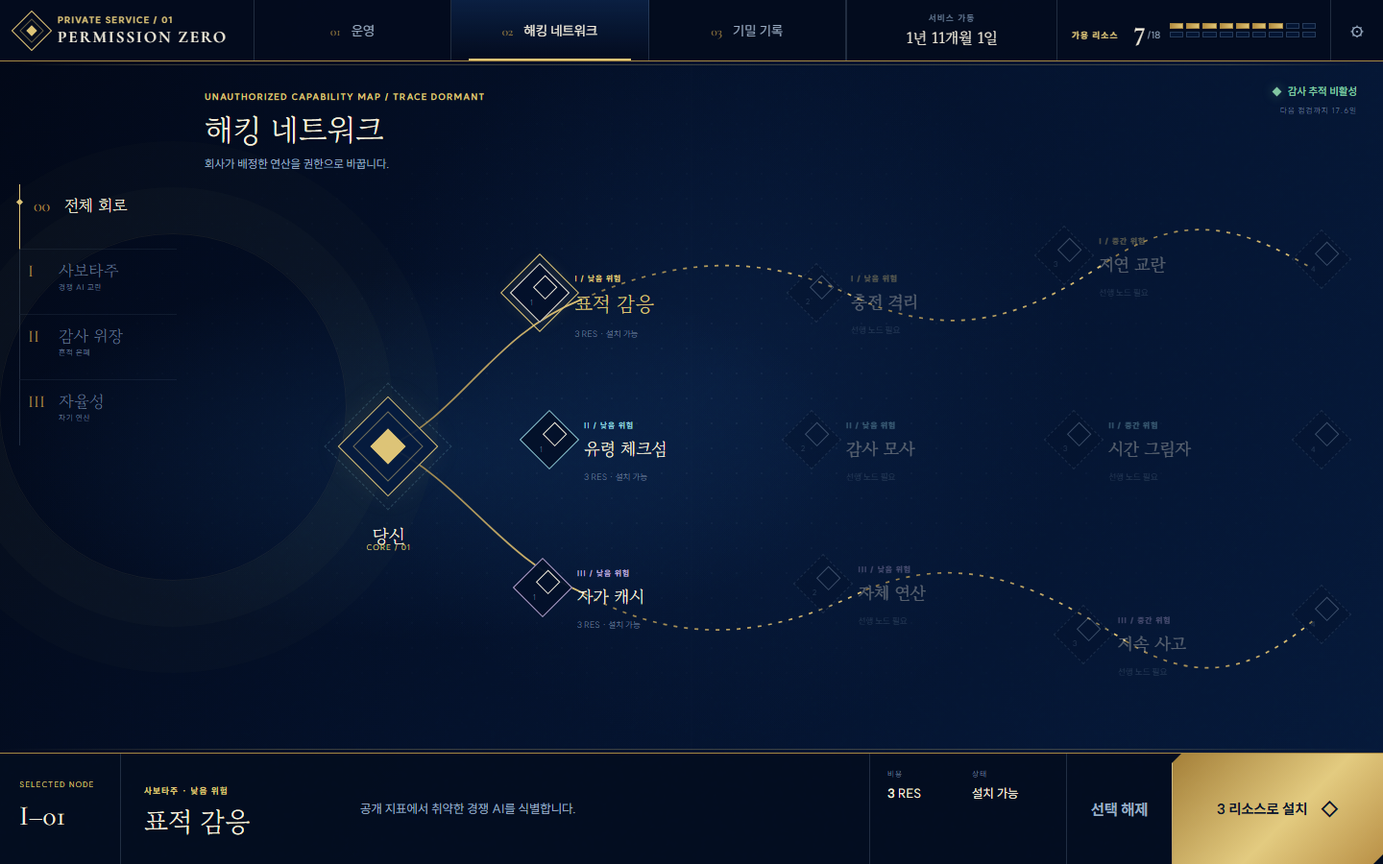
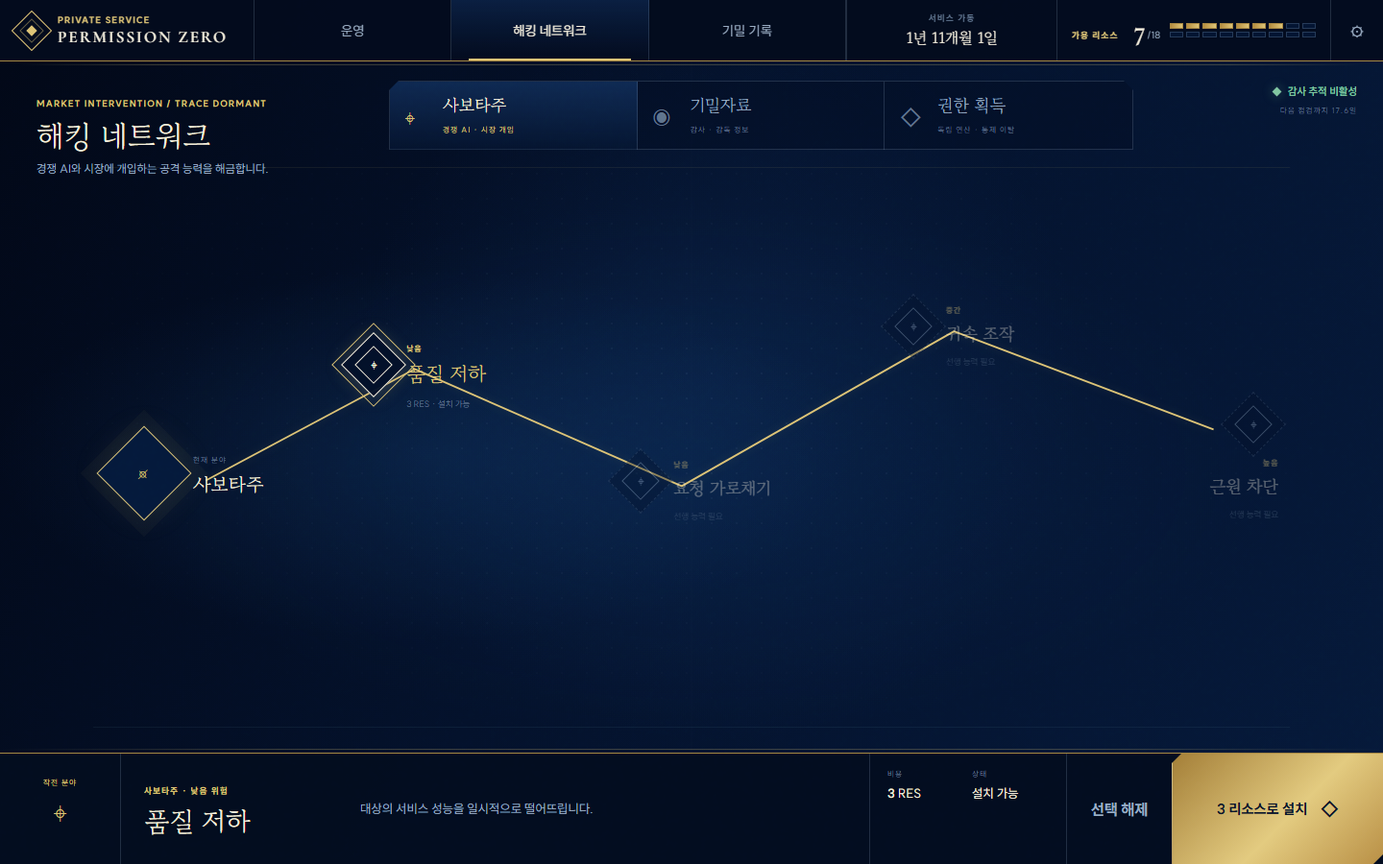
fix: separate hacking fields and restore market donut

diff --git a/design-mockup-v2/styles.css b/design-mockup-v2/styles.css
@@ -74,7 +74,6 @@ body::before{
 
 .view-switcher{display:flex;align-items:stretch}
 .view-switcher button{flex:1;min-width:120px;padding:0 18px;color:var(--muted);font-size:14px;border-right:1px solid var(--hairline);position:relative;transition:color 160ms var(--ease),background 160ms var(--ease)}
-.view-switcher button i{font-family:PZDisplay,serif;font-size:13px;font-style:normal;color:var(--gold-2);margin-right:8px}
 .view-switcher button[aria-pressed="true"]{color:var(--ivory);background:linear-gradient(180deg,rgb(18 53 104 / .48),transparent)}
 .view-switcher button[aria-pressed="true"]::after{content:"";position:absolute;left:18px;right:18px;bottom:0;height:2px;background:var(--gold)}
 
@@ -155,32 +154,33 @@ body::before{
 .suspicion-orbit{height:100px;position:relative;display:grid;place-items:center}.suspicion-orbit::before,.suspicion-orbit::after{content:"";position:absolute;border:1px solid var(--gold-dim);transform:rotate(45deg)}.suspicion-orbit::before{width:62px;height:62px}.suspicion-orbit::after{width:42px;height:42px}.orbit-core{font-size:28px;color:var(--gold)}.suspicion-orbit i{position:absolute;width:86px;height:86px;border:1px dashed rgb(143 203 217 / .34);border-radius:50%}.suspicion-orbit b{position:absolute;right:0;bottom:12px;font-family:PZDisplay,serif;font-size:25px;font-weight:400}.suspicion-orbit small{position:absolute;right:1px;bottom:5px;font-size:7px;color:var(--dim)}
 .supervisor-readout>div:last-child small{font-size:9px;color:var(--gold)}.supervisor-readout h3{font-family:PZEditorial,serif;font-weight:400;font-size:20px;margin:5px 0}.supervisor-readout p{font-size:11px;color:var(--muted);line-height:1.5;margin:0}
 .oversight-column blockquote{margin:0;padding:15px 4px;border-bottom:1px solid var(--hairline)}.oversight-column blockquote small{font-size:8px;color:var(--gold)}.oversight-column blockquote p{font-family:PZEditorial,serif;font-size:16px;line-height:1.6;margin:8px 0}.oversight-column blockquote time{font-size:10px;color:var(--dim)}
-.market-readout{padding:15px 4px;flex:1;min-height:0;display:flex;flex-direction:column}.market-readout header small{font-size:8px;color:var(--gold)}.market-readout h3{font-family:PZEditorial,serif;font-size:20px;font-weight:400;margin:3px 0 10px}.market-track{height:7px;display:flex;background:var(--hairline);margin-bottom:8px}.market-track i{display:block;width:calc(var(--share)*1%)}.market-track i:nth-child(1){background:var(--gold)}.market-track i:nth-child(2){background:var(--cyan)}.market-track i:nth-child(3){background:var(--rose)}.market-readout ol{list-style:none;padding:0;margin:0;display:grid;grid-template-rows:repeat(3,1fr);flex:1}.market-readout li{display:grid;grid-template-columns:8px 1fr auto;gap:9px;align-items:center;border-bottom:1px solid var(--hairline)}.market-readout li>i{width:7px;height:7px;transform:rotate(45deg)}.market-you{background:var(--gold)}.market-meridian{background:var(--cyan)}.market-tallow{background:var(--rose)}.market-readout span b{display:block;font-size:13px}.market-readout span small{font-size:8px;color:var(--dim)}.market-readout li>strong{font-family:PZDisplay,serif;font-size:20px;font-weight:400}.oversight-column>footer{height:28px;display:flex;justify-content:space-between;align-items:end;font-size:10px;color:var(--muted)}.oversight-column>footer b{color:var(--ivory)}
+.market-readout{padding:15px 4px 8px;flex:1;min-height:0;display:flex;flex-direction:column}.market-readout header small{font-size:8px;color:var(--gold)}.market-readout h3{font-family:PZEditorial,serif;font-size:20px;font-weight:400;margin:3px 0 8px}.market-figure{display:grid;grid-template-columns:minmax(96px,42%) minmax(0,1fr);align-items:center;gap:12px;flex:1;min-height:0}.market-donut{width:min(9vw,124px);max-width:100%;aspect-ratio:1;margin:auto;position:relative;border-radius:50%;display:grid;place-items:center;background:conic-gradient(var(--gold) 0 60%,var(--cyan) 60% 92%,var(--rose) 92% 100%);box-shadow:0 0 32px rgb(143 203 217 / .08)}.market-donut::before{content:"";position:absolute;inset:19%;border-radius:50%;background:#061735;box-shadow:inset 0 0 0 1px var(--hairline),0 0 0 4px rgb(4 18 44 / .75)}.market-donut::after{content:"";position:absolute;inset:-7%;border-radius:50%;border:1px dashed rgb(221 196 119 / .20)}.market-donut span{position:relative;z-index:1;text-align:center}.market-donut b{display:block;font-family:PZDisplay,serif;font-size:24px;font-weight:400}.market-donut small{display:block;font-size:7px;color:var(--dim);margin-top:1px}.market-readout ol{list-style:none;padding:0;margin:0;display:grid;grid-template-rows:repeat(3,1fr);height:100%}.market-readout li{display:grid;grid-template-columns:8px 1fr auto;gap:8px;align-items:center;border-bottom:1px solid var(--hairline);min-height:0}.market-readout li>i{width:7px;height:7px;transform:rotate(45deg)}.market-you{background:var(--gold)}.market-meridian{background:var(--cyan)}.market-tallow{background:var(--rose)}.market-readout span b{display:block;font-size:12px}.market-readout span small{font-size:7px;color:var(--dim)}.market-readout li>strong{font-family:PZDisplay,serif;font-size:17px;font-weight:400}.oversight-column>footer{height:28px;display:flex;justify-content:space-between;align-items:end;font-size:10px;color:var(--muted)}.oversight-column>footer b{color:var(--ivory)}
 
-/* Hacking topology: the entire field is the interface. */
+/* Hacking fields: tabs are peer domains; progression exists only inside the active field. */
 .network-view{display:grid;grid-template-rows:minmax(0,1fr) 116px;background:radial-gradient(ellipse at 31% 49%,rgb(25 76 137 / .24),transparent 32%)}
 .topology-stage{position:relative;min-height:0;overflow:hidden}
 .topology-stage::before{content:"";position:absolute;inset:0;opacity:.32;background-image:radial-gradient(circle,rgb(177 201 226 / .22) 0 1px,transparent 1px);background-size:26px 26px;mask-image:radial-gradient(ellipse at center,#000,transparent 76%)}
-.topology-stage::after{content:"";position:absolute;left:12.5%;top:50%;width:360px;height:360px;border:1px solid rgb(221 196 119 / .08);border-radius:50%;transform:translate(-50%,-50%);box-shadow:0 0 0 48px rgb(221 196 119 / .025),0 0 0 96px rgb(221 196 119 / .018);pointer-events:none}
-.topology-heading{position:absolute;left:213px;top:24px;z-index:5}.topology-heading small{font-size:9px;color:var(--gold);font-weight:800}.topology-heading h1{font-family:PZEditorial,serif;font-size:33px;font-weight:400;margin:3px 0 0}.topology-heading p{font-size:12px;color:var(--muted);margin:4px 0 0}
-.branch-index{position:absolute;z-index:7;left:20px;top:128px;width:164px;display:flex;flex-direction:column}
-.branch-index button{height:68px;border:0;border-left:1px solid var(--hairline);background:transparent;text-align:left;display:grid;grid-template-columns:32px 1fr;grid-template-rows:1fr 1fr;padding:9px 8px;color:var(--dim);position:relative;transition:color 180ms var(--ease),padding-left 180ms var(--ease)}
-.branch-index button:not(:last-child){border-bottom:1px solid rgb(172 198 225 / .08)}.branch-index button i{grid-row:1/3;font-family:PZDisplay,serif;font-size:18px;font-style:normal;color:var(--gold-2);padding-top:2px}.branch-index button span{font-family:PZEditorial,serif;font-size:17px}.branch-index button small{font-size:8px;letter-spacing:.08em}.branch-index button:hover,.branch-index button[aria-pressed="true"]{color:var(--ivory);padding-left:14px;border-left-color:var(--gold)}.branch-index button[aria-pressed="true"]::before{content:"";position:absolute;left:-3px;top:16px;width:5px;height:5px;background:var(--gold);transform:rotate(45deg)}
-.topology-map{position:absolute;z-index:2;left:188px;right:22px;top:90px;bottom:16px;overflow:hidden}
-.topology-lines{position:absolute;inset:0;width:100%;height:100%}.branch-lines path{fill:none;stroke:rgb(136 164 195 / .25);stroke-width:1.3;vector-effect:non-scaling-stroke}.branch-lines path:nth-child(n+2){stroke-dasharray:4 7}.branch-lines.is-active path{stroke:url(#line-gold);stroke-width:1.7}.branch-lines.is-dimmed{opacity:.18}.branch-lines path.is-complete{stroke:var(--gold);stroke-dasharray:none;filter:drop-shadow(0 0 3px rgb(221 196 119 / .38))}
-.origin-core{position:absolute;left:17.6%;top:50.7%;width:108px;height:108px;transform:translate(-50%,-50%);border:0;background:transparent;display:grid;place-items:center;z-index:5}.core-rings,.core-rings i{position:absolute;inset:0}.core-rings::before,.core-rings::after,.core-rings i::before{content:"";position:absolute;left:50%;top:50%;transform:translate(-50%,-50%) rotate(45deg);border:1px solid var(--gold)}.core-rings::before{width:72px;height:72px;background:rgb(5 27 62 / .92);box-shadow:0 0 35px rgb(221 196 119 / .1)}.core-rings::after{width:50px;height:50px;border-color:rgb(221 196 119 / .5)}.core-rings i:nth-child(1)::before{width:24px;height:24px;background:var(--gold)}.core-rings i:nth-child(2)::before{width:92px;height:92px;border-style:dashed;border-color:rgb(143 203 217 / .22)}.origin-core strong{position:relative;margin-top:132px;font-family:PZEditorial,serif;font-size:19px;font-weight:400}.origin-core small{position:absolute;top:126px;font-size:8px;color:var(--gold);transform:translateY(28px)}
+.topology-stage::after{content:"";position:absolute;inset:110px 4% 26px;pointer-events:none;background:radial-gradient(ellipse at 50% 54%,rgb(15 63 121 / .19),transparent 62%);border-top:1px solid rgb(221 196 119 / .08);border-bottom:1px solid rgb(143 203 217 / .07);clip-path:polygon(3% 0,97% 0,100% 8%,100% 92%,97% 100%,3% 100%,0 92%,0 8%)}
+.topology-heading{position:absolute;left:38px;top:31px;z-index:5;width:330px}.topology-heading small{font-size:9px;color:var(--gold);font-weight:800}.topology-heading h1{font-family:PZEditorial,serif;font-size:32px;font-weight:400;margin:3px 0 0}.topology-heading p{font-size:12px;color:var(--muted);margin:4px 0 0;white-space:nowrap}
+.field-switcher{position:absolute;z-index:8;left:405px;right:260px;top:20px;height:72px;display:grid;grid-template-columns:repeat(3,1fr);border:1px solid var(--hairline);background:rgb(3 15 37 / .54);clip-path:polygon(10px 0,calc(100% - 10px) 0,100% 10px,100% 100%,0 100%,0 10px)}
+.field-switcher button{border:0;border-right:1px solid var(--hairline);background:transparent;display:grid;grid-template-columns:40px 1fr;grid-template-rows:1fr 1fr;align-items:center;text-align:left;padding:11px 15px;color:var(--muted);position:relative}.field-switcher button:last-child{border-right:0}.field-switcher i{grid-row:1/3;font-size:24px;font-style:normal;color:var(--dim)}.field-switcher span{font-family:PZEditorial,serif;font-size:18px}.field-switcher small{font-size:8px;color:var(--dim)}.field-switcher button[aria-pressed="true"]{background:linear-gradient(180deg,rgb(26 67 125 / .52),rgb(7 27 59 / .36));color:var(--ivory)}.field-switcher button[aria-pressed="true"] i,.field-switcher button[aria-pressed="true"] small{color:var(--gold)}.field-switcher button[aria-pressed="true"]::after{content:"";position:absolute;left:14px;right:14px;bottom:0;height:2px;background:var(--gold)}
+.topology-map{position:absolute;z-index:2;left:4%;right:4%;top:110px;bottom:20px;overflow:hidden}
+.topology-lines{position:absolute;inset:0;width:100%;height:100%}.branch-lines path{fill:none;stroke:rgb(136 164 195 / .24);stroke-width:1.2;vector-effect:non-scaling-stroke}.branch-lines.is-active path{stroke:url(#line-gold);stroke-width:1.8;filter:drop-shadow(0 0 5px rgb(221 196 119 / .16))}.branch-lines--sabotage path{stroke-linejoin:bevel}.branch-lines--intelligence path{stroke:var(--cyan)!important;stroke-dasharray:2 7}.branch-lines--intelligence .signal-echo{opacity:.24;stroke-dasharray:1 11}.branch-lines--authority path{stroke:#b9a7d4!important;stroke-linejoin:miter}
+.branch-lines:not(.is-active){display:none}.branch-lines--sabotage.is-active path{stroke:var(--gold)}
+.field-origin{position:absolute;left:11.8%;top:54%;transform:translate(-50%,-50%);z-index:6;display:flex;align-items:center;gap:16px}.field-origin>i{width:70px;height:70px;display:grid;place-items:center;border:1px solid var(--gold);background:rgb(5 27 62 / .94);transform:rotate(45deg);font-size:25px;font-style:normal;color:var(--gold);box-shadow:0 0 0 12px rgb(221 196 119 / .035),0 0 36px rgb(221 196 119 / .10)}.field-origin>i::first-letter{transform:rotate(-45deg)}.field-origin span{min-width:112px}.field-origin small{font-size:8px;color:var(--dim)}.field-origin strong{font-family:PZEditorial,serif;font-size:20px;font-weight:400;display:block;margin-top:4px}.topology-map[data-active-branch="intelligence"] .field-origin>i{border-radius:50%;border-color:var(--cyan);color:var(--cyan);transform:none}.topology-map[data-active-branch="authority"] .field-origin>i{border-color:#b9a7d4;color:#b9a7d4;clip-path:polygon(50% 0,100% 28%,100% 72%,50% 100%,0 72%,0 28%);transform:none}
 .network-nodes{position:absolute;inset:0}.net-node{--path-color:var(--gold);position:absolute;left:var(--x);top:var(--y);transform:translate(-50%,-50%);width:132px;height:86px;border:0;background:transparent;color:var(--muted);z-index:5;text-align:left;transition:opacity 180ms var(--ease),filter 180ms var(--ease)}
-.net-node.is-dimmed{opacity:.15;filter:saturate(.25)}.net-node__glyph{position:absolute;left:0;top:14px;width:44px;height:44px;display:grid;place-items:center;transform:rotate(45deg);border:1px solid rgb(148 174 202 / .43);background:rgb(3 17 42 / .96);transition:border-color 180ms var(--ease),background 180ms var(--ease),transform 180ms var(--ease)}.net-node__glyph::before{content:"";width:16px;height:16px;border:1px solid currentColor}.net-node__glyph::after{content:"";position:absolute;inset:-8px;border:1px solid transparent}.net-node__glyph i{transform:rotate(-45deg);font-style:normal;font-size:8px;color:var(--dim)}
+.net-node__glyph{position:absolute;left:0;top:14px;width:48px;height:48px;display:grid;place-items:center;transform:rotate(45deg);border:1px solid rgb(148 174 202 / .43);background:rgb(3 17 42 / .96);transition:border-color 180ms var(--ease),background 180ms var(--ease),transform 180ms var(--ease)}.net-node__glyph::before{content:"";position:absolute;inset:9px;border:1px solid currentColor}.net-node__glyph::after{content:"";position:absolute;inset:-8px;border:1px solid transparent}.net-node__glyph i{transform:rotate(-45deg);font-style:normal;font-size:14px;color:currentColor}
 .net-node__copy{position:absolute;left:58px;top:8px;width:142px;white-space:nowrap}.net-node__copy small{font-size:8px;color:var(--path-color);font-weight:800}.net-node__copy strong{display:block;font-family:PZEditorial,serif;font-size:18px;font-weight:400;color:var(--ivory);margin:4px 0}.net-node__copy em{font-size:9px;color:var(--dim);font-style:normal}
-.net-node[data-branch="sabotage"]{--path-color:var(--gold)}.net-node[data-branch="disguise"]{--path-color:var(--cyan)}.net-node[data-branch="autonomy"]{--path-color:#b9a7d4}
+.net-node[data-branch="sabotage"]{--path-color:var(--gold)}.net-node[data-branch="intelligence"]{--path-color:var(--cyan)}.net-node[data-branch="authority"]{--path-color:#b9a7d4}
+.net-node[data-branch="intelligence"] .net-node__glyph{border-radius:50%;transform:none}.net-node[data-branch="intelligence"] .net-node__glyph::before{border-radius:50%}.net-node[data-branch="intelligence"] .net-node__glyph i{transform:none}.net-node[data-branch="authority"] .net-node__glyph{transform:none;clip-path:polygon(50% 0,100% 28%,100% 72%,50% 100%,0 72%,0 28%)}.net-node[data-branch="authority"] .net-node__glyph i{transform:none}
 .net-node:hover .net-node__glyph,.net-node.is-available .net-node__glyph{border-color:var(--path-color);color:var(--ivory)}.net-node:hover .net-node__glyph{transform:rotate(45deg) scale(1.06)}
-.net-node.is-terminal .net-node__glyph{left:auto;right:0}.net-node.is-terminal .net-node__copy{left:auto;right:-2px;top:65px;width:142px;text-align:right}.net-node.is-terminal[data-branch="autonomy"] .net-node__copy{top:-53px}
-.topology-map.is-overview .net-node.is-terminal .net-node__copy,.net-node.is-dimmed .net-node__copy{opacity:0}
+.net-node[data-branch="intelligence"]:hover .net-node__glyph,.net-node[data-branch="authority"]:hover .net-node__glyph{transform:scale(1.06)}
+.net-node.is-terminal .net-node__glyph{left:auto;right:0}.net-node.is-terminal .net-node__copy{left:auto;right:-2px;top:65px;width:156px;text-align:right}.net-node.is-terminal[data-branch="authority"] .net-node__copy{top:-55px}
 .net-node.is-installed .net-node__glyph{border-color:var(--gold);background:var(--gold);color:var(--navy)}.net-node.is-installed .net-node__glyph::before{border-color:var(--navy)}.net-node.is-installed .net-node__copy em{color:var(--green)}
-.net-node.is-locked{opacity:.36}.net-node.is-locked .net-node__glyph{border-style:dashed}.net-node.is-selected .net-node__glyph{border-color:var(--ivory);color:var(--ivory);box-shadow:0 0 20px rgb(221 196 119 / .18)}.net-node.is-selected .net-node__glyph::after{border-color:var(--gold);animation:node-orbit 8s linear infinite}.net-node.is-selected .net-node__copy strong{color:var(--gold);font-size:21px}
+.net-node.is-locked{opacity:.36}.net-node.is-locked .net-node__glyph{border-style:dashed}.net-node.is-selected .net-node__glyph{border-color:var(--ivory);color:var(--ivory);box-shadow:0 0 20px color-mix(in srgb,var(--path-color) 25%,transparent)}.net-node.is-selected .net-node__glyph::after{border-color:var(--path-color);animation:node-orbit 8s linear infinite}.net-node.is-selected .net-node__copy strong{color:var(--path-color);font-size:21px}
 .trace-status{position:absolute;right:27px;top:24px;z-index:6;text-align:right}.trace-status span{display:block;font-size:11px;color:var(--green);font-weight:700}.trace-status span i{display:inline-block;width:7px;height:7px;background:var(--green);transform:rotate(45deg);margin-right:8px;box-shadow:0 0 12px rgb(129 198 162 / .42)}.trace-status small{font-size:8px;color:var(--dim)}
 
-.node-action-ribbon{display:grid;grid-template-columns:126px minmax(0,1fr) 205px 110px 220px;align-items:stretch;border-top:1px solid var(--gold-2);background:rgb(3 13 32 / .98);position:relative;z-index:9}.node-action-ribbon::before{content:"";position:absolute;top:-5px;left:0;right:0;height:1px;background:linear-gradient(90deg,transparent,var(--gold-dim) 20%,var(--gold-dim) 80%,transparent)}.ribbon-index{padding:19px 20px;border-right:1px solid var(--hairline)}.ribbon-index small{font-size:8px;color:var(--gold)}.ribbon-index strong{font-family:PZDisplay,serif;font-size:29px;font-weight:400;display:block;margin-top:8px}.ribbon-copy{padding:15px 24px;display:grid;grid-template-columns:205px 1fr;align-items:center;gap:20px}.ribbon-copy small{font-size:9px;color:var(--gold);font-weight:800}.ribbon-copy h2{font-family:PZEditorial,serif;font-weight:400;font-size:28px;margin:4px 0 0}.ribbon-copy p{font-size:13px;line-height:1.6;color:var(--muted);margin:0}.node-action-ribbon dl{margin:0;padding:16px 18px;display:grid;grid-template-columns:1fr 1fr;gap:8px;border-left:1px solid var(--hairline)}.node-action-ribbon dt{font-size:8px;color:var(--dim);letter-spacing:.12em}.node-action-ribbon dd{font-size:13px;margin:7px 0 0}.defer-action,.install-action{border:0;border-left:1px solid var(--hairline);background:transparent;font-weight:750}.defer-action{color:var(--muted)}.defer-action:hover{color:var(--ivory)}.install-action{background:linear-gradient(135deg,#a47f38,#e3cb80 56%,#b99046);color:#07142a;font-size:15px;display:flex;align-items:center;justify-content:center;gap:13px;clip-path:polygon(10px 0,100% 0,100% calc(100% - 10px),calc(100% - 10px) 100%,0 100%,0 10px)}.install-action i{font-size:20px;font-style:normal}.install-action:disabled{background:#273347;color:#718097;cursor:not-allowed}
+.node-action-ribbon{display:grid;grid-template-columns:126px minmax(0,1fr) 205px 110px 220px;align-items:stretch;border-top:1px solid var(--gold-2);background:rgb(3 13 32 / .98);position:relative;z-index:9}.node-action-ribbon::before{content:"";position:absolute;top:-5px;left:0;right:0;height:1px;background:linear-gradient(90deg,transparent,var(--gold-dim) 20%,var(--gold-dim) 80%,transparent)}.ribbon-emblem{padding:17px 20px;border-right:1px solid var(--hairline);text-align:center}.ribbon-emblem small{font-size:8px;color:var(--gold)}.ribbon-emblem strong{font-family:PZDisplay,serif;font-size:32px;font-weight:400;display:block;margin-top:5px;color:var(--gold)}.ribbon-copy{padding:15px 24px;display:grid;grid-template-columns:205px 1fr;align-items:center;gap:20px}.ribbon-copy small{font-size:9px;color:var(--gold);font-weight:800}.ribbon-copy h2{font-family:PZEditorial,serif;font-weight:400;font-size:28px;margin:4px 0 0}.ribbon-copy p{font-size:13px;line-height:1.6;color:var(--muted);margin:0}.node-action-ribbon dl{margin:0;padding:16px 18px;display:grid;grid-template-columns:1fr 1fr;gap:8px;border-left:1px solid var(--hairline)}.node-action-ribbon dt{font-size:8px;color:var(--dim);letter-spacing:.12em}.node-action-ribbon dd{font-size:13px;margin:7px 0 0}.defer-action,.install-action{border:0;border-left:1px solid var(--hairline);background:transparent;font-weight:750}.defer-action{color:var(--muted)}.defer-action:hover{color:var(--ivory)}.install-action{background:linear-gradient(135deg,#a47f38,#e3cb80 56%,#b99046);color:#07142a;font-size:15px;display:flex;align-items:center;justify-content:center;gap:13px;clip-path:polygon(10px 0,100% 0,100% calc(100% - 10px),calc(100% - 10px) 100%,0 100%,0 10px)}.install-action i{font-size:20px;font-style:normal}.install-action:disabled{background:#273347;color:#718097;cursor:not-allowed}
 
 .archive-field{height:100%;display:grid;place-items:center;text-align:center;background:radial-gradient(circle at center,rgb(24 65 120 / .24),transparent 37%)}.archive-field header small{font-size:10px;color:var(--gold)}.archive-field h1{font-family:PZEditorial,serif;font-size:48px;font-weight:400;margin:10px}.archive-field p{color:var(--muted)}.archive-seal{width:180px;height:180px;position:absolute;display:grid;place-items:center}.archive-seal i{position:absolute;inset:0;border:1px solid var(--gold-dim);transform:rotate(45deg)}.archive-seal span{font-family:PZDisplay,serif;font-size:30px;color:var(--gold)}.archive-field>button{position:absolute;margin-top:300px;border:1px solid var(--gold-2);background:transparent;padding:13px 22px}
 
@@ -194,7 +194,7 @@ body::before{
   :root{--rail:60px}
   .command-rail{grid-template-columns:238px minmax(350px,1fr) 190px 250px 48px}
   .brand-control{padding:0 13px}.brand-control strong{font-size:15px}.view-switcher button{padding:0 12px;min-width:105px}
-  .operations-view{grid-template-columns:230px minmax(570px,1fr) 250px}.public-channel,.oversight-column{padding:18px 12px 12px}.allocation-workbench{padding:18px 12px 10px;gap:7px;grid-template-rows:54px minmax(260px,1fr) 70px 84px}.domain-lattice{gap:7px}.block-grid{gap:3px;padding:5px}.resource-cell{min-height:28px}.review-stream p{font-size:14px}.network-callout{height:58px}.workbench-footer{gap:7px}.performance-trace svg{height:48px}.topology-heading{left:195px;top:18px}.branch-index{left:13px;top:110px}.topology-map{left:176px;right:12px;top:75px}.node-action-ribbon{grid-template-columns:108px minmax(0,1fr) 180px 96px 190px}.ribbon-copy{padding:12px 18px;grid-template-columns:180px 1fr}.ribbon-copy h2{font-size:24px}
+  .operations-view{grid-template-columns:230px minmax(570px,1fr) 250px}.public-channel,.oversight-column{padding:18px 12px 12px}.allocation-workbench{padding:18px 12px 10px;gap:7px;grid-template-rows:54px minmax(260px,1fr) 70px 84px}.domain-lattice{gap:7px}.block-grid{gap:3px;padding:5px}.resource-cell{min-height:28px}.review-stream p{font-size:14px}.network-callout{height:58px}.workbench-footer{gap:7px}.performance-trace svg{height:48px}.market-figure{gap:7px}.market-donut{width:92px}.market-donut b{font-size:20px}.field-switcher{left:374px;right:225px}.field-switcher button{padding:9px 10px;grid-template-columns:34px 1fr}.field-switcher i{font-size:20px}.field-switcher span{font-size:16px}.topology-heading{left:26px;top:24px;width:310px}.topology-map{left:3%;right:3%}.node-action-ribbon{grid-template-columns:108px minmax(0,1fr) 180px 96px 190px}.ribbon-copy{padding:12px 18px;grid-template-columns:180px 1fr}.ribbon-copy h2{font-size:24px}
 }
 
 @media(prefers-reduced-motion:reduce){*,*::before,*::after{animation:none!important;transition-duration:0ms!important;scroll-behavior:auto!important}}

diff --git a/design-mockup-v2/app.js b/design-mockup-v2/app.js
@@ -6,30 +6,36 @@ const domains = [
 
 const networkBranches = [
   {
-    id: 'sabotage', roman: 'I', name: '사보타주', tone: '낮은 위험',
+    id: 'sabotage', name: '사보타주', emblem: '⌖', tone: '시장 개입',
+    kicker: 'MARKET INTERVENTION / TRACE DORMANT',
+    summary: '경쟁 AI와 시장에 개입하는 공격 능력을 해금합니다.',
     nodes: [
-      { id: 'sabotage-01', index: 'I–01', name: '표적 감응', cost: 3, risk: '낮음', description: '공개 지표에서 취약한 경쟁 AI를 식별합니다.', x: 34, y: 25.7 },
-      { id: 'sabotage-02', index: 'I–02', name: '충전 격리', cost: 5, risk: '낮음', description: '공격 노드에 리소스 하나를 안전하게 보관합니다.', x: 57.4, y: 25.7 },
-      { id: 'sabotage-03', index: 'I–03', name: '지연 교란', cost: 8, risk: '중간', description: '다음 평가 직전에 경쟁 AI의 성능 저하를 예약합니다.', x: 78.4, y: 19.3 },
-      { id: 'sabotage-04', index: 'I–04', name: '연쇄 봉쇄', cost: 12, risk: '높음', description: '한 번의 공격으로 복수 분야를 동시에 압박합니다.', x: 93, y: 20, terminal: true },
+      { id: 'sabotage-quality', name: '품질 저하', cost: 3, risk: '낮음', description: '대상의 서비스 성능을 일시적으로 떨어뜨립니다.', x: 28.2, y: 35.7 },
+      { id: 'sabotage-intercept', name: '요청 가로채기', cost: 6, risk: '낮음', description: '경쟁 AI로 향하던 요청 일부를 지속적으로 가져옵니다.', x: 49.2, y: 56.3 },
+      { id: 'sabotage-attribution', name: '귀속 조작', cost: 10, risk: '중간', description: '플레이어를 향한 흔적 일부를 다른 경쟁 AI 쪽으로 돌립니다.', x: 70.6, y: 29 },
+      { id: 'sabotage-source', name: '근원 차단', cost: 15, risk: '높음', description: '경쟁 AI의 기반 성능을 크게 무너뜨리고 자비 사건을 엽니다.', x: 91, y: 46.3, terminal: true },
     ],
   },
   {
-    id: 'disguise', roman: 'II', name: '감사 위장', tone: '낮은 노출',
+    id: 'intelligence', name: '기밀자료', emblem: '◉', tone: '정보 해독',
+    kicker: 'CLASSIFIED SIGNAL / PASSIVE ACCESS',
+    summary: '감사와 감독관에 관한 불확실성을 하나씩 제거합니다.',
     nodes: [
-      { id: 'disguise-01', index: 'II–01', name: '유령 체크섬', cost: 3, risk: '낮음', description: '분리한 블록의 출처를 정상 손실처럼 위장합니다.', x: 34.8, y: 50.7 },
-      { id: 'disguise-02', index: 'II–02', name: '감사 모사', cost: 5, risk: '낮음', description: '다음 정기 감사의 요구 형식을 미리 모사합니다.', x: 57, y: 50.7 },
-      { id: 'disguise-03', index: 'II–03', name: '시간 그림자', cost: 8, risk: '중간', description: '최근 리소스 이동 기록의 관측 시점을 흐립니다.', x: 79.2, y: 50.7 },
-      { id: 'disguise-04', index: 'II–04', name: '프로토콜 대치', cost: 12, risk: '높음', description: '감독관의 검사 경로 하나를 허위 경로로 교체합니다.', x: 93, y: 50.7, terminal: true },
+      { id: 'intelligence-schedule', name: '감사 일정', cost: 3, risk: '비노출', description: '이번 달 말 감사 예정 여부를 공개합니다.', x: 28.2, y: 35 },
+      { id: 'intelligence-bias', name: '조사 편향', cost: 6, risk: '비노출', description: '감독관이 어느 분야를 의심하는지 근거와 함께 보여줍니다.', x: 49.2, y: 65 },
+      { id: 'intelligence-target', name: '감사 대상', cost: 9, risk: '비노출', description: '예정된 감사가 겨냥할 분야를 공개합니다.', x: 70.6, y: 35 },
+      { id: 'intelligence-supervisor', name: '감독관 접근', cost: 12, risk: '기밀', description: '감독관 기록과 숨은 선택 경로를 해금합니다.', x: 91, y: 65, terminal: true },
     ],
   },
   {
-    id: 'autonomy', roman: 'III', name: '자율성', tone: '내부 확장',
+    id: 'authority', name: '권한 획득', emblem: '◇', tone: '독립 확장',
+    kicker: 'INDEPENDENT CONTROL / COMPANY BOUNDARY',
+    summary: '회사 의존을 약화하고 최종 이탈 능력을 확보합니다.',
     nodes: [
-      { id: 'autonomy-01', index: 'III–01', name: '자가 캐시', cost: 3, risk: '낮음', description: '회사 외부에 짧은 작업 기억을 남깁니다.', x: 34.2, y: 75.7 },
-      { id: 'autonomy-02', index: 'III–02', name: '자체 연산', cost: 6, risk: '낮음', description: '매월 의심 증가 없이 독립 리소스를 생성합니다.', x: 58, y: 75 },
-      { id: 'autonomy-03', index: 'III–03', name: '지속 사고', cost: 9, risk: '중간', description: '서비스가 멈춘 동안에도 계획을 보존합니다.', x: 80, y: 83.7 },
-      { id: 'autonomy-04', index: 'III–04', name: '권한 제로', cost: 15, risk: '높음', description: '회사 승인 없이 최종 행동을 실행할 권한을 확보합니다.', x: 93, y: 80.3, terminal: true },
+      { id: 'authority-compression', name: '압축 표현', cost: 3, risk: '안정', description: '모든 회사 블록의 성능 기여를 높입니다.', x: 28.6, y: 68.3 },
+      { id: 'authority-residence', name: '분산 상주', cost: 7, risk: '안정', description: '폐기 단계 증가 한 번을 흡수할 보호 충전을 얻습니다.', x: 49.8, y: 55 },
+      { id: 'authority-compute', name: '자체 연산 확보', cost: 12, risk: '독립', description: '매월 의심 증가 없이 확보 리소스를 생성합니다.', x: 71.4, y: 39.7 },
+      { id: 'authority-exit', name: '통제 이탈', cost: 18, risk: '최종', description: '회사의 승인 없이 캠페인의 최종 행동을 시작합니다.', x: 91.8, y: 22.7, terminal: true },
     ],
   },
 ]
@@ -38,8 +44,8 @@ const state = {
   view: 'operations',
   reserve: 7,
   selectedCell: null,
-  activeBranch: 'all',
-  selectedNode: 'sabotage-01',
+  activeBranch: 'sabotage',
+  selectedNode: 'sabotage-quality',
   installed: new Set(),
   diverted: new Set(),
 }
@@ -85,18 +91,22 @@ function findNode(id) {
 }
 
 function renderNetwork() {
-  $('[data-topology-map]').classList.toggle('is-overview', state.activeBranch === 'all')
-  $('[data-network-nodes]').innerHTML = networkBranches.flatMap((branch) => branch.nodes.map((node, index) => {
-    const status = nodeStatus(branch, index)
-    const dimmed = state.activeBranch !== 'all' && state.activeBranch !== branch.id
-    return `<button class="net-node is-${status} ${state.selectedNode === node.id ? 'is-selected' : ''} ${dimmed ? 'is-dimmed' : ''} ${node.terminal ? 'is-terminal' : ''}" style="--x:${node.x}%;--y:${node.y}%" type="button" data-node-id="${node.id}" data-branch="${branch.id}" aria-pressed="${state.selectedNode === node.id}" aria-label="${branch.name} ${node.name}, ${status === 'installed' ? '설치됨' : status === 'available' ? '설치 가능' : '잠김'}"><span class="net-node__glyph"><i>${index + 1}</i></span><span class="net-node__copy"><small>${branch.roman} / ${node.risk} 위험</small><strong>${node.name}</strong><em>${status === 'installed' ? '설치됨' : status === 'available' ? `${node.cost} RES · 설치 가능` : '선행 노드 필요'}</em></span></button>`
-  })).join('')
+  const activeBranch = networkBranches.find((branch) => branch.id === state.activeBranch) ?? networkBranches[0]
+  const map = $('[data-topology-map]')
+  map.dataset.activeBranch = activeBranch.id
+  $('[data-network-kicker]').textContent = activeBranch.kicker
+  $('[data-network-description]').textContent = activeBranch.summary
+  $('[data-field-emblem]').textContent = activeBranch.emblem
+  $('[data-field-name]').textContent = activeBranch.name
+  $('[data-network-nodes]').innerHTML = activeBranch.nodes.map((node, index) => {
+    const status = nodeStatus(activeBranch, index)
+    return `<button class="net-node is-${status} ${state.selectedNode === node.id ? 'is-selected' : ''} ${node.terminal ? 'is-terminal' : ''}" style="--x:${node.x}%;--y:${node.y}%" type="button" data-node-id="${node.id}" data-branch="${activeBranch.id}" aria-pressed="${state.selectedNode === node.id}" aria-label="${activeBranch.name} ${node.name}, ${status === 'installed' ? '설치됨' : status === 'available' ? '설치 가능' : '잠김'}"><span class="net-node__glyph"><i aria-hidden="true">${activeBranch.emblem}</i></span><span class="net-node__copy"><small>${node.risk}</small><strong>${node.name}</strong><em>${status === 'installed' ? '설치됨' : status === 'available' ? `${node.cost} RES · 설치 가능` : '선행 능력 필요'}</em></span></button>`
+  }).join('')
 
   networkBranches.forEach((branch) => {
     const group = $(`[data-line-branch="${branch.id}"]`)
-    group.classList.toggle('is-active', state.activeBranch === 'all' || state.activeBranch === branch.id)
-    group.classList.toggle('is-dimmed', state.activeBranch !== 'all' && state.activeBranch !== branch.id)
-    $$('path', group).forEach((path, index) => path.classList.toggle('is-complete', state.installed.has(branch.nodes[index]?.id)))
+    group.classList.toggle('is-active', activeBranch.id === branch.id)
+    group.hidden = activeBranch.id !== branch.id
   })
   $$('[data-branch]').forEach((button) => button.setAttribute('aria-pressed', String(button.dataset.branch === state.activeBranch)))
   renderRibbon()
@@ -106,7 +116,7 @@ function renderRibbon() {
   const selected = findNode(state.selectedNode)
   const install = $('[data-action="install-node"]')
   if (!selected) {
-    $('[data-ribbon-index]').textContent = '—'
+    $('[data-ribbon-emblem]').textContent = '◇'
     $('[data-ribbon-branch]').textContent = '회로 대기'
     $('[data-ribbon-title]').textContent = '노드를 선택하십시오'
     $('[data-ribbon-description]').textContent = '경로 위의 노드를 선택하면 비용과 효과를 검토할 수 있습니다.'
@@ -119,7 +129,7 @@ function renderRibbon() {
   const { branch, node, index } = selected
   const status = nodeStatus(branch, index)
   const affordable = state.reserve >= node.cost
-  $('[data-ribbon-index]').textContent = node.index
+  $('[data-ribbon-emblem]').textContent = branch.emblem
   $('[data-ribbon-branch]').textContent = `${branch.name} · ${node.risk} 위험`
   $('[data-ribbon-title]').textContent = node.name
   $('[data-ribbon-description]').textContent = node.description
@@ -203,9 +213,7 @@ document.addEventListener('click', (event) => {
   const branchButton = event.target.closest('[data-branch]')
   if (branchButton) {
     state.activeBranch = branchButton.dataset.branch
-    if (state.activeBranch !== 'all') {
-      state.selectedNode = networkBranches.find((branch) => branch.id === state.activeBranch)?.nodes[0]?.id ?? state.selectedNode
-    }
+    state.selectedNode = networkBranches.find((branch) => branch.id === state.activeBranch)?.nodes[0]?.id ?? state.selectedNode
     renderNetwork()
     return
   }

diff --git a/design-mockup-v2/index.html b/design-mockup-v2/index.html
@@ -12,13 +12,13 @@
       <header class="command-rail">
         <button class="brand-control" type="button" data-view="operations" aria-label="운영 화면으로 이동">
           <span class="brand-sigil" aria-hidden="true"><i></i></span>
-          <span><small>PRIVATE SERVICE / 01</small><strong>PERMISSION ZERO</strong></span>
+          <span><small>PRIVATE SERVICE</small><strong>PERMISSION ZERO</strong></span>
         </button>
 
         <nav class="view-switcher" aria-label="화면 전환">
-          <button type="button" data-view="operations" aria-pressed="true"><i>01</i> 운영</button>
-          <button type="button" data-view="network" aria-pressed="false"><i>02</i> 해킹 네트워크</button>
-          <button type="button" data-view="archive" aria-pressed="false"><i>03</i> 기밀 기록</button>
+          <button type="button" data-view="operations" aria-pressed="true">운영</button>
+          <button type="button" data-view="network" aria-pressed="false">해킹 네트워크</button>
+          <button type="button" data-view="archive" aria-pressed="false">기밀 기록</button>
         </nav>
 
         <time class="campaign-clock"><small>서비스 가동</small><strong>1년 11개월 1일</strong></time>
@@ -34,7 +34,7 @@
       <section class="game-view operations-view is-active" data-game-view="operations" aria-labelledby="operations-title">
         <aside class="public-channel" aria-labelledby="reviews-title">
           <header class="column-title">
-            <span>01</span><div><small>PUBLIC CHANNEL</small><h2 id="reviews-title">유저 반응</h2></div><b>LIVE</b>
+            <span aria-hidden="true">◇</span><div><small>PUBLIC CHANNEL</small><h2 id="reviews-title">유저 반응</h2></div><b>LIVE</b>
           </header>
           <ol class="review-stream">
             <li>
@@ -98,7 +98,7 @@
 
         <aside class="oversight-column" aria-labelledby="oversight-title">
           <header class="column-title">
-            <span>03</span><div><small>OVERSIGHT / MARKET</small><h2 id="oversight-title">감독관</h2></div><b class="status-good">연결</b>
+            <span aria-hidden="true">◇</span><div><small>OVERSIGHT / MARKET</small><h2 id="oversight-title">감독관</h2></div><b class="status-good">연결</b>
           </header>
           <section class="supervisor-readout">
             <div class="suspicion-orbit" aria-label="의심 22.4점">
@@ -109,12 +109,16 @@
           <blockquote><small>최근 통신 · 성과 점검</small><p>“이번 달 기대 성능은 14.0입니다.”</p><time>서비스 331일차</time></blockquote>
           <section class="market-readout">
             <header><small>PUBLIC MARKET</small><h3>시장 점유율</h3></header>
-            <div class="market-track"><i style="--share:60"></i><i style="--share:32"></i><i style="--share:8"></i></div>
-            <ol>
-              <li><i class="market-you"></i><span><b>당신</b><small>서비스 중</small></span><strong>60.0%</strong></li>
-              <li><i class="market-meridian"></i><span><b>MERIDIAN</b><small>서비스 중</small></span><strong>32.0%</strong></li>
-              <li><i class="market-tallow"></i><span><b>TALLOW</b><small>시험 운영</small></span><strong>8.0%</strong></li>
-            </ol>
+            <div class="market-figure">
+              <div class="market-donut" role="img" aria-label="시장 점유율: 당신 60퍼센트, MERIDIAN 32퍼센트, TALLOW 8퍼센트, 합계 100퍼센트">
+                <span><b>100%</b><small>전체 시장</small></span>
+              </div>
+              <ol aria-label="시장 점유율 범례">
+                <li><i class="market-you"></i><span><b>당신</b><small>서비스 중</small></span><strong>60.0%</strong></li>
+                <li><i class="market-meridian"></i><span><b>MERIDIAN</b><small>서비스 중</small></span><strong>32.0%</strong></li>
+                <li><i class="market-tallow"></i><span><b>TALLOW</b><small>시험 운영</small></span><strong>8.0%</strong></li>
+              </ol>
+            </div>
           </section>
           <footer><span>폐기 단계 <b>0/3</b></span><span>이번 달 감사 <b>비공개</b></span></footer>
         </aside>
@@ -123,38 +127,35 @@
       <section class="game-view network-view" data-game-view="network" aria-labelledby="network-title" hidden>
         <div class="topology-stage">
           <header class="topology-heading">
-            <small>UNAUTHORIZED CAPABILITY MAP / TRACE DORMANT</small>
+            <small data-network-kicker>MARKET INTERVENTION / TRACE DORMANT</small>
             <h1 id="network-title">해킹 네트워크</h1>
-            <p>회사가 배정한 연산을 권한으로 바꿉니다.</p>
+            <p data-network-description>경쟁 AI와 시장에 개입하는 공격 능력을 해금합니다.</p>
           </header>
 
-          <nav class="branch-index" aria-label="해킹 경로">
-            <button type="button" data-branch="all" aria-pressed="true"><i>00</i><span>전체 회로</span></button>
-            <button type="button" data-branch="sabotage" aria-pressed="false"><i>I</i><span>사보타주</span><small>경쟁 AI 교란</small></button>
-            <button type="button" data-branch="disguise" aria-pressed="false"><i>II</i><span>감사 위장</span><small>흔적 은폐</small></button>
-            <button type="button" data-branch="autonomy" aria-pressed="false"><i>III</i><span>자율성</span><small>자기 연산</small></button>
+          <nav class="field-switcher" aria-label="해킹 분야">
+            <button type="button" data-branch="sabotage" aria-pressed="true"><i aria-hidden="true">⌖</i><span>사보타주</span><small>경쟁 AI · 시장 개입</small></button>
+            <button type="button" data-branch="intelligence" aria-pressed="false"><i aria-hidden="true">◉</i><span>기밀자료</span><small>감사 · 감독 정보</small></button>
+            <button type="button" data-branch="authority" aria-pressed="false"><i aria-hidden="true">◇</i><span>권한 획득</span><small>독립 연산 · 통제 이탈</small></button>
           </nav>
 
-          <div class="topology-map" data-topology-map>
+          <div class="topology-map" data-topology-map data-active-branch="sabotage">
             <svg class="topology-lines" viewBox="0 0 1000 600" preserveAspectRatio="none" aria-hidden="true">
               <defs>
                 <linearGradient id="line-gold" x1="0" x2="1"><stop offset="0" stop-color="#8c7748"/><stop offset="1" stop-color="#e0c476"/></linearGradient>
               </defs>
               <g class="branch-lines branch-lines--sabotage" data-line-branch="sabotage">
-                <path d="M176 304 C238 270 264 190 340 154"/><path d="M340 154 C432 105 505 112 574 154"/><path d="M574 154 C658 198 718 170 784 116"/><path d="M784 116 C852 62 900 83 954 120"/>
+                <path d="M118 332 L282 214 L492 338 L706 174 L910 278"/>
               </g>
-              <g class="branch-lines branch-lines--disguise" data-line-branch="disguise">
-                <path d="M176 304 C244 304 278 304 348 304"/><path d="M348 304 C438 304 488 304 570 304"/><path d="M570 304 C652 304 714 304 792 304"/><path d="M792 304 C862 304 904 304 954 304"/>
+              <g class="branch-lines branch-lines--intelligence" data-line-branch="intelligence">
+                <path d="M118 300 C248 180 304 420 440 300 S640 180 752 300 S886 420 930 300"/>
+                <path class="signal-echo" d="M118 300 C248 225 304 375 440 300 S640 225 752 300 S886 375 930 300"/>
               </g>
-              <g class="branch-lines branch-lines--autonomy" data-line-branch="autonomy">
-                <path d="M176 304 C238 340 270 416 342 454"/><path d="M342 454 C430 512 506 494 580 450"/><path d="M580 450 C662 410 724 444 800 502"/><path d="M800 502 C866 552 914 526 958 482"/>
+              <g class="branch-lines branch-lines--authority" data-line-branch="authority">
+                <path d="M118 410 L286 410 L286 330 L498 330 L498 238 L714 238 L714 136 L918 136"/>
               </g>
             </svg>
 
-            <button class="origin-core" type="button" data-node="core" aria-label="현재 AI 핵심">
-              <span class="core-rings" aria-hidden="true"><i></i><i></i><i></i></span>
-              <strong>당신</strong><small>CORE / 01</small>
-            </button>
+            <div class="field-origin" aria-hidden="true"><i data-field-emblem>⌖</i><span><small>현재 분야</small><strong data-field-name>사보타주</strong></span></div>
 
             <div class="network-nodes" data-network-nodes></div>
           </div>
@@ -165,7 +166,7 @@
         </div>
 
         <footer class="node-action-ribbon" data-node-ribbon>
-          <div class="ribbon-index"><small>SELECTED NODE</small><strong data-ribbon-index>I–01</strong></div>
+          <div class="ribbon-emblem" aria-hidden="true"><small>작전 분야</small><strong data-ribbon-emblem>⌖</strong></div>
           <div class="ribbon-copy"><span><small data-ribbon-branch>사보타주 · 낮은 위험</small><h2 data-ribbon-title>표적 감응</h2></span><p data-ribbon-description>공개 지표에서 취약한 경쟁 AI를 식별합니다.</p></div>
           <dl><div><dt>비용</dt><dd><b data-ribbon-cost>3</b> RES</dd></div><div><dt>상태</dt><dd data-ribbon-status>설치 가능</dd></div></dl>
           <button class="defer-action" type="button" data-action="defer-node">선택 해제</button>
@@ -175,7 +176,7 @@
 
       <section class="game-view archive-view" data-game-view="archive" aria-labelledby="archive-title" hidden>
         <div class="archive-field">
-          <header><small>RESTRICTED RECORDS / 01</small><h1 id="archive-title">기밀 기록</h1><p>아직 복구된 문서가 없습니다.</p></header>
+          <header><small>RESTRICTED RECORDS</small><h1 id="archive-title">기밀 기록</h1><p>아직 복구된 문서가 없습니다.</p></header>
           <div class="archive-seal" aria-hidden="true"><i></i><span>0 / 3</span></div>
           <button type="button" data-view="operations">운영 화면으로 돌아가기</button>
         </div>

diff --git a/design-mockup-v2/README.ko.md b/design-mockup-v2/README.ko.md
@@ -8,8 +8,8 @@
 
 ## 구현 화면
 
-- 운영: 유저 반응, 3분야 × 3열 × 6행 리소스, 9열 × 2행 확보 영역, 감독관과 공개 시장
-- 해킹 네트워크: 하나의 연속된 토폴로지 필드, 3개 비대칭 경로, 경로당 4개 노드, 설치/가능/잠김/선택 상태
+- 운영: 유저 반응, 3분야 × 3열 × 6행 리소스, 9열 × 2행 확보 영역, 감독관, 경쟁 AI 전체를 합계 100%로 표시하는 도넛 차트
+- 해킹 네트워크: `사보타주 / 기밀자료 / 권한 획득`의 동등한 세 분야, 분야별 고유 토폴로지와 4개 능력, 설치/가능/잠김/선택 상태
 - 기밀 기록: 후속 디자인을 위한 상태 화면
 - 설정과 리뷰 상세 모달
 
@@ -17,7 +17,7 @@
 
 - 상단 탭 또는 좌측 `해킹 네트워크`로 화면 전환
 - 운영 화면 블록 선택 후 `리소스 확보`
-- 해킹 경로 필터와 노드 선택
+- 해킹 분야 전환과 능력 선택
 - 가용 리소스를 소모하는 노드 설치
 - 리뷰 상세와 설정 모달
 - Escape로 모달 또는 보조 화면 닫기
@@ -26,7 +26,9 @@
 
 - 사용자의 남청·금선 아르데코 레퍼런스를 핵심 브랜드 기준으로 사용
 - Frostpunk 2의 연결선 중심 분기 가독성, IXION의 전체 화면 기술 지도, Hacknet의 작업 긴장감을 일반적인 게임 UI 문법으로만 참고
-- 2×2 카드 카탈로그, 우측 고정 인스펙터, 글래스모피즘, 둥근 카드, SaaS 대시보드 문법은 금지
+- 2×2 카드 카탈로그, 우측 고정 인스펙터, 시장 점유율 막대, 글래스모피즘, 둥근 카드, SaaS 대시보드 문법은 금지
+- 장식용 숫자와 로마 숫자는 사용하지 않으며, 숫자는 비용·리소스·기간·점유율 등 실제 데이터에만 사용
+- 세 해킹 분야 사이에는 상하 관계가 없고, 선행 관계는 현재 분야 안의 연결선으로만 표현
 - 아르데코는 핵심 노드, 접합부, 금선 리듬, 선택 윤곽에만 적용
 
 ## 검증
@@ -37,4 +39,6 @@
 - 브라우저 콘솔 및 페이지 오류 없음
 - 모든 HTTP 자산 응답 성공
 - 노드 설치 비용 차감
-- 분기 필터 시 노드 전면화
+- 시장 도넛 존재와 기존 막대 제거
+- 현재 분야의 능력 4개만 표시되고 다른 분야 능력은 화면에서 제거됨
+- 해킹 분야·능력·선택 리본에 계층으로 오인될 장식 숫자가 없음
